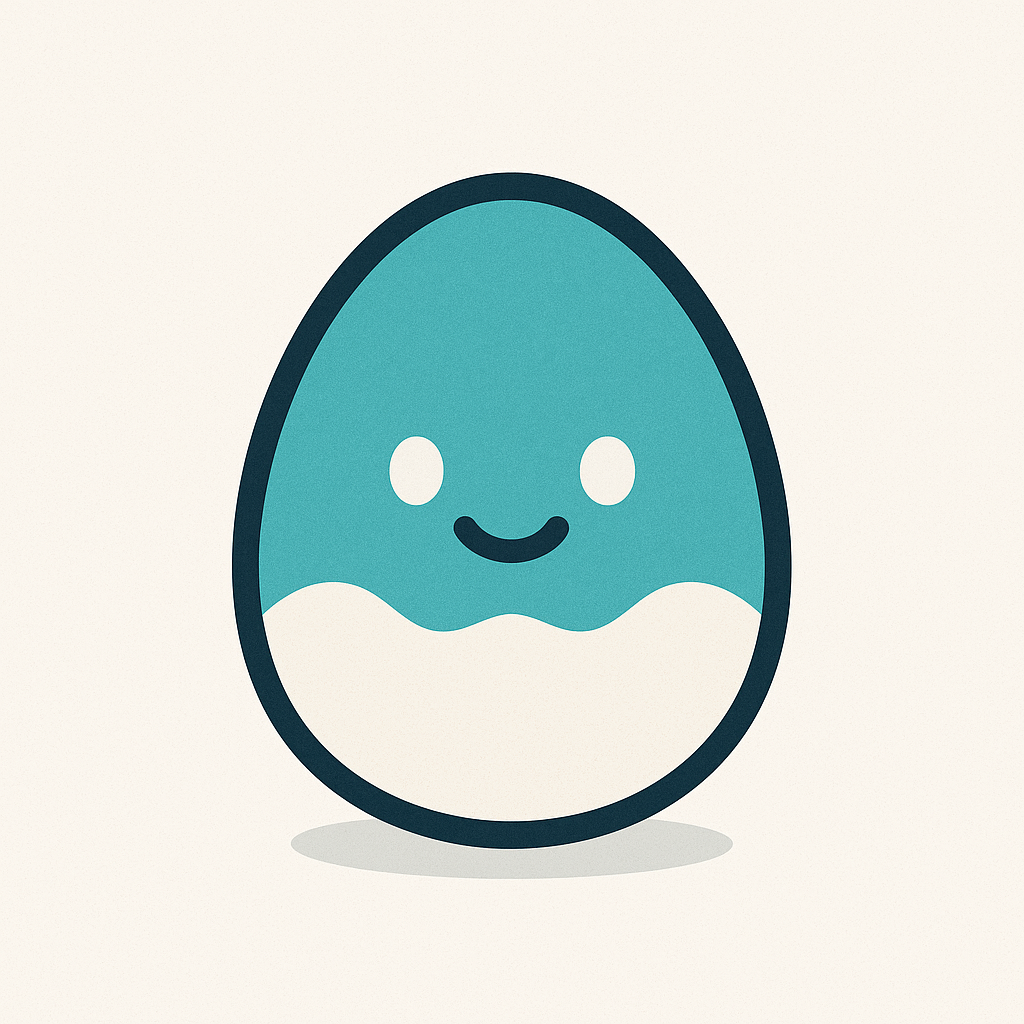
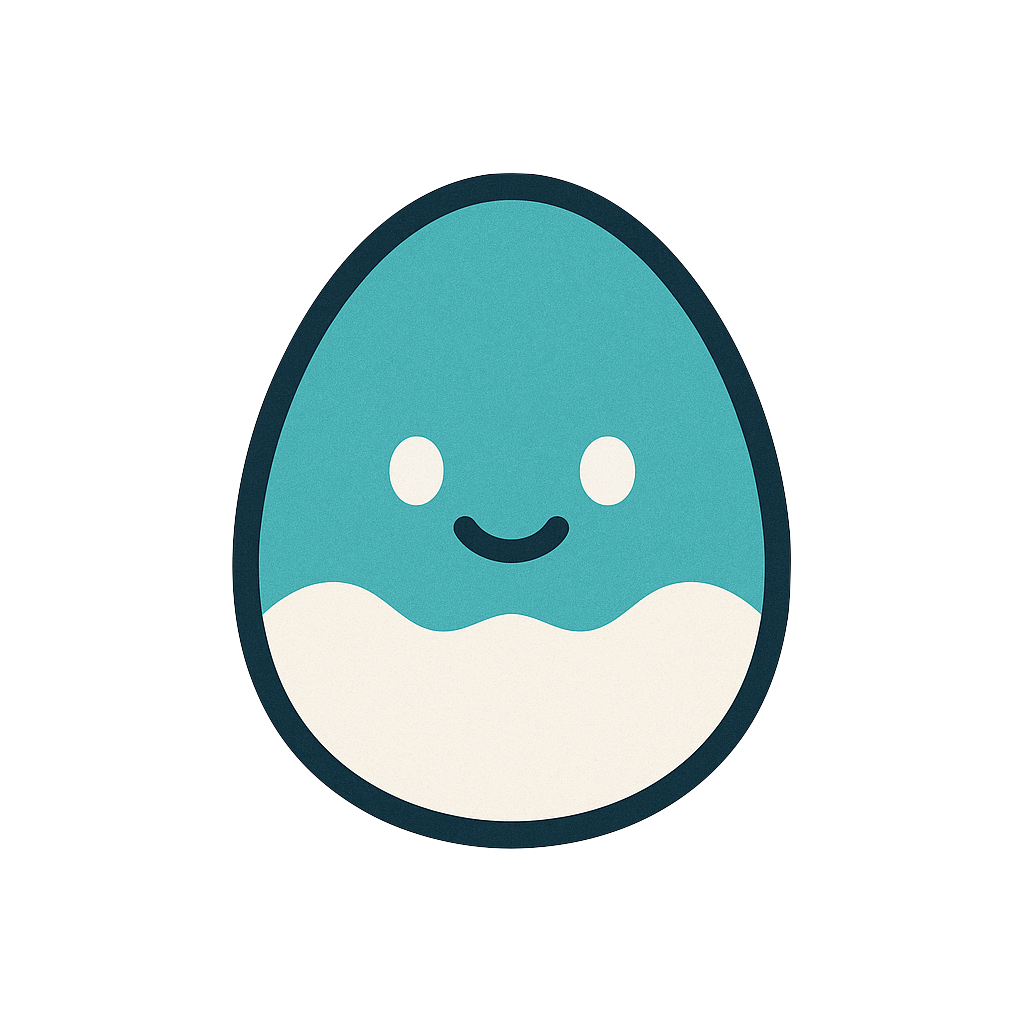
fix: Restore pet animation effects
- Add CSS keyframes for bounce-gentle, study, play, and rest animations
- Baby (egg) tier now constantly bounces as before
- Action-based animations restored for study/play/rest activities
- Update baby pet image with cropped version

Changed region(s): [[0.2812, 0.7812, 0.7188, 0.875]]

diff --git a/frontend/app/globals.css b/frontend/app/globals.css
@@ -25,3 +25,57 @@ body {
     text-wrap: balance;
   }
 }
+
+@keyframes bounce-gentle {
+  0%, 100% {
+    transform: translateY(0);
+  }
+  50% {
+    transform: translateY(-10px);
+  }
+}
+
+@keyframes study {
+  0%, 100% {
+    transform: rotateZ(0deg);
+  }
+  25% {
+    transform: rotateZ(-5deg);
+  }
+  75% {
+    transform: rotateZ(5deg);
+  }
+}
+
+@keyframes play {
+  0%, 100% {
+    transform: translateY(0) rotateZ(0deg);
+  }
+  25% {
+    transform: translateY(-15px) rotateZ(-10deg);
+  }
+  75% {
+    transform: translateY(-15px) rotateZ(10deg);
+  }
+}
+
+@keyframes rest {
+  0%, 100% {
+    opacity: 1;
+  }
+  50% {
+    opacity: 0.7;
+  }
+}
+
+.animate-study {
+  animation: study 2s ease-in-out infinite;
+}
+
+.animate-play {
+  animation: play 1s ease-in-out infinite;
+}
+
+.animate-rest {
+  animation: rest 2s ease-in-out infinite;
+}

diff --git a/frontend/components/AinimoPet.tsx b/frontend/components/AinimoPet.tsx
@@ -27,6 +27,11 @@ export function AinimoPet({ parameters, language, currentActivity }: AinimoPetPr
   };
 
   const getAnimationClass = (): string => {
+    // babyの時は常にバウンス
+    if (tier === 'baby') {
+      return 'animate-[bounce-gentle_2s_ease-in-out_infinite]';
+    }
+
     if (!currentActivity) return '';
 
     switch (currentActivity) {
